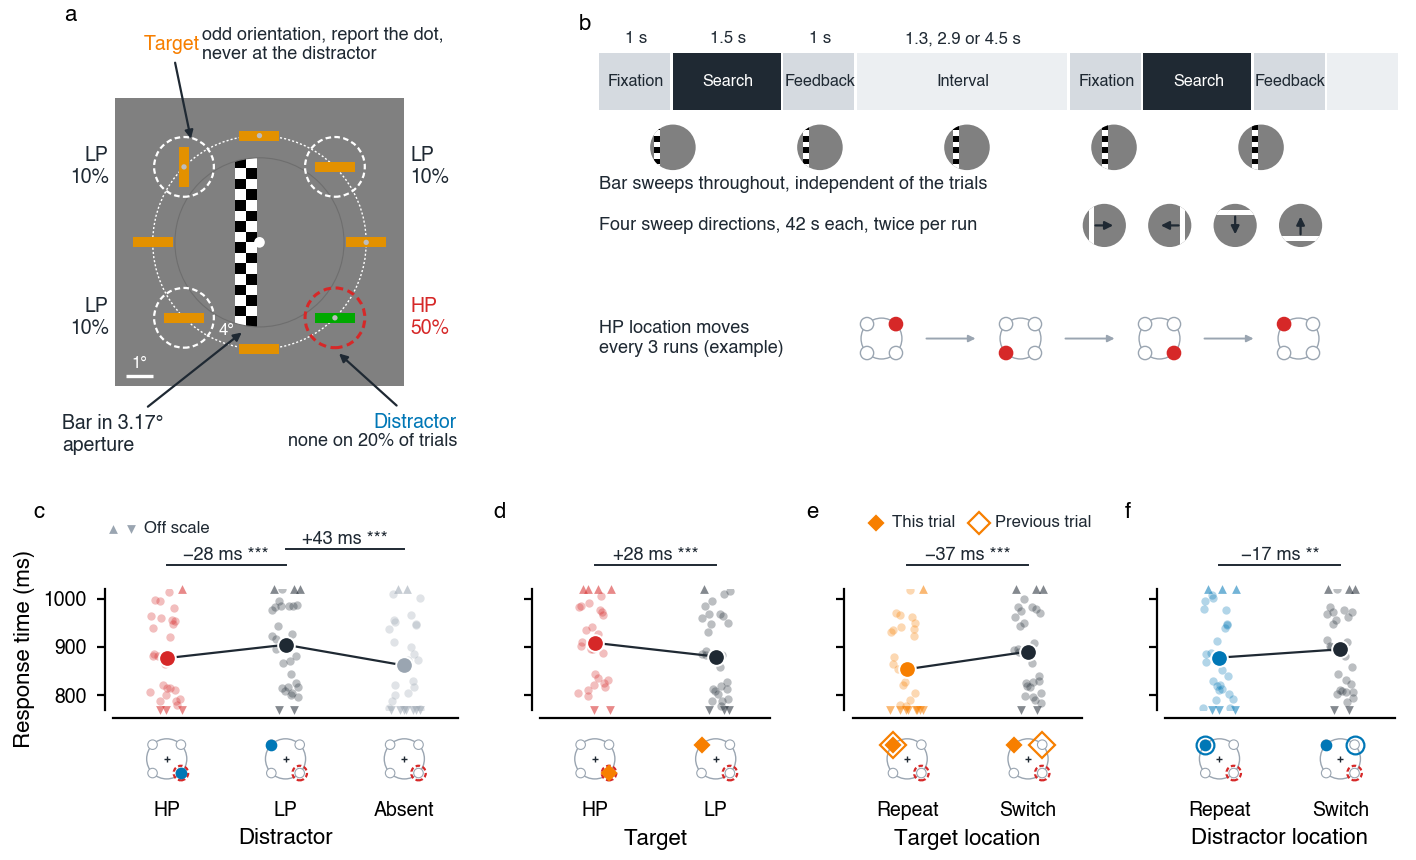
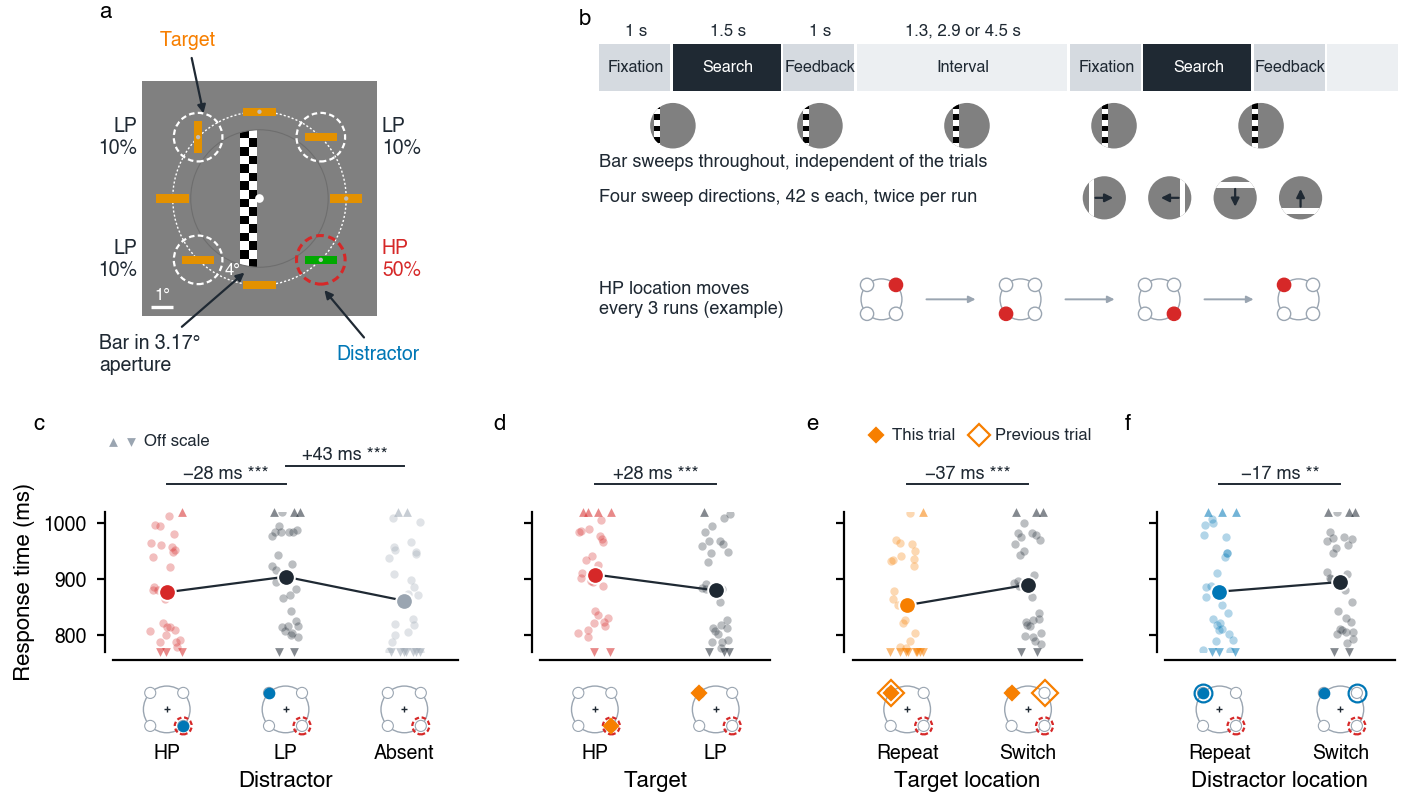
Fig. 1: task rules from panel a into the legend, shorter top row, less white space under b

diff --git a/retsupp/visualize/paper/fig1_paradigm_behaviour.py b/retsupp/visualize/paper/fig1_paradigm_behaviour.py
@@ -21,7 +21,7 @@ from retsupp.visualize.paper.paper_style import DISTRACTOR, DOUBLE, FG, HP, MUTE
 from retsupp.visualize.paper.plot_fig1 import APERTURE, RING, item_positions, panel_display
 
 LEGEND = """
-**Figure 1. Paradigm and behaviour.** a, Search display with the bar in its 3.17° aperture: 8 items on a ring at 4°, with target and distractor at the four diagonal positions; percentages are over all trials. b, Two trials to scale, with the bar position every 2 s below; the bar sweeps the aperture in four directions (rightward, leftward, downward, upward; 42 s each with 4.8 s rest, the sequence twice per run), and the HP location across blocks of runs (example order). c, Response time with the distractor at the HP location, at an LP location, or absent. d, Response time with the target at the HP or an LP location, on trials with a distractor. e, f, Response time when the target (e) or the distractor (f) appears at the same location as on the previous trial, or at another location; distractor repeats are compared within HP and within LP trials and averaged. Icons below each condition: the four possible locations with HP ringed in red; filled, the item on this trial, hollow, on the previous trial. c-f, n = 30, correct trials. Dots are subjects, triangles are subjects beyond the axis limits; large points and bars are the mean ± within-subject SEM (Cousineau-Morey). Wilcoxon signed-rank tests: ** p < .01, *** p < .001.
+**Figure 1. Paradigm and behaviour.** a, Search display with the bar in its 3.17° aperture: 8 items on a ring at 4°, with target and distractor at the four diagonal positions; percentages are over all trials. The target has the odd orientation (participants report the dot on it) and never appears at the distractor's location; there is no distractor on 20% of trials. b, Two trials to scale, with the bar position every 2 s below; the bar sweeps the aperture in four directions (rightward, leftward, downward, upward; 42 s each with 4.8 s rest, the sequence twice per run), and the HP location across blocks of runs (example order). c, Response time with the distractor at the HP location, at an LP location, or absent. d, Response time with the target at the HP or an LP location, on trials with a distractor. e, f, Response time when the target (e) or the distractor (f) appears at the same location as on the previous trial, or at another location; distractor repeats are compared within HP and within LP trials and averaged. Icons below each condition: the four possible locations with HP ringed in red; filled, the item on this trial, hollow, on the previous trial. c-f, n = 30, correct trials. Dots are subjects, triangles are subjects beyond the axis limits; large points and bars are the mean ± within-subject SEM (Cousineau-Morey). Wilcoxon signed-rank tests: ** p < .01, *** p < .001.
 """
 
 
@@ -204,15 +204,15 @@ def main(rt_table, bids, name='fig1_paradigm_behaviour', trial_table='notes/data
     d = pd.read_csv(rt_table, sep='\t')
     rep = repeats_raw(trial_table)
     # Display and timeline on top; the four behaviour panels across the full width below, with room between.
-    fig = plt.figure(figsize=(DOUBLE, 4.3))
-    top = fig.add_gridspec(1, 2, width_ratios=[1, 1.62], left=.005, right=.995, top=.985, bottom=.47, wspace=.12)
+    fig = plt.figure(figsize=(DOUBLE, 4.0))
+    top = fig.add_gridspec(1, 2, width_ratios=[1, 1.62], left=.005, right=.995, top=.985, bottom=.535, wspace=.12)
     ax = fig.add_subplot(top[0])
     panel_display(ax, margin=7.4)
     letter(ax, 'a', x=.05, y=.97)
     ax = fig.add_subplot(top[1])
     panel_timeline(fig, ax)
     letter(ax, 'b', x=0, y=.95)
-    low = fig.add_gridspec(1, 4, width_ratios=[3, 2, 2, 2], left=.08, right=.985, top=.315, bottom=.175, wspace=.32)
+    low = fig.add_gridspec(1, 4, width_ratios=[3, 2, 2, 2], left=.08, right=.985, top=.36, bottom=.185, wspace=.32)
     ylim = (770, 1020)
     ax = fig.add_subplot(low[0])
     rt_panel(ax, d[d.contrast == 'distractor'], ['HP', 'LP', 'Absent'], [HP, FG, MUTED], [('HP', 'LP'), ('LP', 'Absent')], ylim)

diff --git a/retsupp/visualize/paper/plot_fig1.py b/retsupp/visualize/paper/plot_fig1.py
@@ -144,12 +144,10 @@ def panel_display(ax, margin=9.3):
     kw = dict(fontsize=7, color=FG, annotation_clip=False,
               arrowprops=dict(arrowstyle='-|>', color=FG, lw=.8, mutation_scale=6, shrinkA=1, shrinkB=2))
     # Item names in the paper's item colours (target orange, distractor blue), their descriptions in the text colour.
-    ax.annotate('Target', xy=pos[3] + [.3, .85], xytext=(-3.3, 7.4), ha='center', va='center',
+    ax.annotate('Target', xy=pos[3] + [.3, .85], xytext=(-3.3, 7.3), ha='center', va='center',
                 **{**kw, 'color': TARGET_C, 'fontweight': 'bold'})
-    ax.text(-2.15, 7.4, 'odd orientation, report the dot,\nnever at the distractor', ha='left', va='center', fontsize=6.5, color=FG)
-    ax.annotate('Distractor', xy=pos[7] + [0, -1.2], xytext=(margin, -6.75), ha='right', va='center',
+    ax.annotate('Distractor', xy=pos[7] + [0, -1.2], xytext=(margin, -7.2), ha='right', va='center',
                 **{**kw, 'color': DISTRACTOR_C, 'fontweight': 'bold'})
-    ax.text(margin, -7.45, 'none on 20% of trials', ha='right', va='center', fontsize=6.5, color=FG)
     ax.annotate('Bar in 3.17°\naperture', xy=(-.5, -3.25), xytext=(-margin, -7.2), ha='left', va='center', **kw)
     # Anchors: the ring and aperture eccentricities, and a 1° scale bar.
     ax.add_patch(Circle((0, 0), RING, fill=False, ec='w', lw=.5, ls=(0, (1.5, 1.5)), zorder=2.5))

diff --git a/notes/figures/paper_2026-11/fig1_paradigm_behaviour.md b/notes/figures/paper_2026-11/fig1_paradigm_behaviour.md
@@ -1,1 +1,1 @@
-**Figure 1. Paradigm and behaviour.** a, Search display with the bar in its 3.17° aperture: 8 items on a ring at 4°, with target and distractor at the four diagonal positions; percentages are over all trials. b, Two trials to scale, with the bar position every 2 s below; the bar sweeps the aperture in four directions (rightward, leftward, downward, upward; 42 s each with 4.8 s rest, the sequence twice per run), and the HP location across blocks of runs (example order). c, Response time with the distractor at the HP location, at an LP location, or absent. d, Response time with the target at the HP or an LP location, on trials with a distractor. e, f, Response time when the target (e) or the distractor (f) appears at the same location as on the previous trial, or at another location; distractor repeats are compared within HP and within LP trials and averaged. Icons below each condition: the four possible locations with HP ringed in red; filled, the item on this trial, hollow, on the previous trial. c-f, n = 30, correct trials. Dots are subjects, triangles are subjects beyond the axis limits; large points and bars are the mean ± within-subject SEM (Cousineau-Morey). Wilcoxon signed-rank tests: ** p < .01, *** p < .001.
+**Figure 1. Paradigm and behaviour.** a, Search display with the bar in its 3.17° aperture: 8 items on a ring at 4°, with target and distractor at the four diagonal positions; percentages are over all trials. The target has the odd orientation (participants report the dot on it) and never appears at the distractor's location; there is no distractor on 20% of trials. b, Two trials to scale, with the bar position every 2 s below; the bar sweeps the aperture in four directions (rightward, leftward, downward, upward; 42 s each with 4.8 s rest, the sequence twice per run), and the HP location across blocks of runs (example order). c, Response time with the distractor at the HP location, at an LP location, or absent. d, Response time with the target at the HP or an LP location, on trials with a distractor. e, f, Response time when the target (e) or the distractor (f) appears at the same location as on the previous trial, or at another location; distractor repeats are compared within HP and within LP trials and averaged. Icons below each condition: the four possible locations with HP ringed in red; filled, the item on this trial, hollow, on the previous trial. c-f, n = 30, correct trials. Dots are subjects, triangles are subjects beyond the axis limits; large points and bars are the mean ± within-subject SEM (Cousineau-Morey). Wilcoxon signed-rank tests: ** p < .01, *** p < .001.

diff --git a/notes/writing_package_2026-11/figures/fig1_paradigm_behaviour.md b/notes/writing_package_2026-11/figures/fig1_paradigm_behaviour.md
@@ -1,1 +1,1 @@
-**Figure 1. Paradigm and behaviour.** a, Search display with the bar in its 3.17° aperture: 8 items on a ring at 4°, with target and distractor at the four diagonal positions; percentages are over all trials. b, Two trials to scale, with the bar position every 2 s below; the bar sweeps the aperture in four directions (rightward, leftward, downward, upward; 42 s each with 4.8 s rest, the sequence twice per run), and the HP location across blocks of runs (example order). c, Response time with the distractor at the HP location, at an LP location, or absent. d, Response time with the target at the HP or an LP location, on trials with a distractor. e, f, Response time when the target (e) or the distractor (f) appears at the same location as on the previous trial, or at another location; distractor repeats are compared within HP and within LP trials and averaged. Icons below each condition: the four possible locations with HP ringed in red; filled, the item on this trial, hollow, on the previous trial. c-f, n = 30, correct trials. Dots are subjects, triangles are subjects beyond the axis limits; large points and bars are the mean ± within-subject SEM (Cousineau-Morey). Wilcoxon signed-rank tests: ** p < .01, *** p < .001.
+**Figure 1. Paradigm and behaviour.** a, Search display with the bar in its 3.17° aperture: 8 items on a ring at 4°, with target and distractor at the four diagonal positions; percentages are over all trials. The target has the odd orientation (participants report the dot on it) and never appears at the distractor's location; there is no distractor on 20% of trials. b, Two trials to scale, with the bar position every 2 s below; the bar sweeps the aperture in four directions (rightward, leftward, downward, upward; 42 s each with 4.8 s rest, the sequence twice per run), and the HP location across blocks of runs (example order). c, Response time with the distractor at the HP location, at an LP location, or absent. d, Response time with the target at the HP or an LP location, on trials with a distractor. e, f, Response time when the target (e) or the distractor (f) appears at the same location as on the previous trial, or at another location; distractor repeats are compared within HP and within LP trials and averaged. Icons below each condition: the four possible locations with HP ringed in red; filled, the item on this trial, hollow, on the previous trial. c-f, n = 30, correct trials. Dots are subjects, triangles are subjects beyond the axis limits; large points and bars are the mean ± within-subject SEM (Cousineau-Morey). Wilcoxon signed-rank tests: ** p < .01, *** p < .001.
